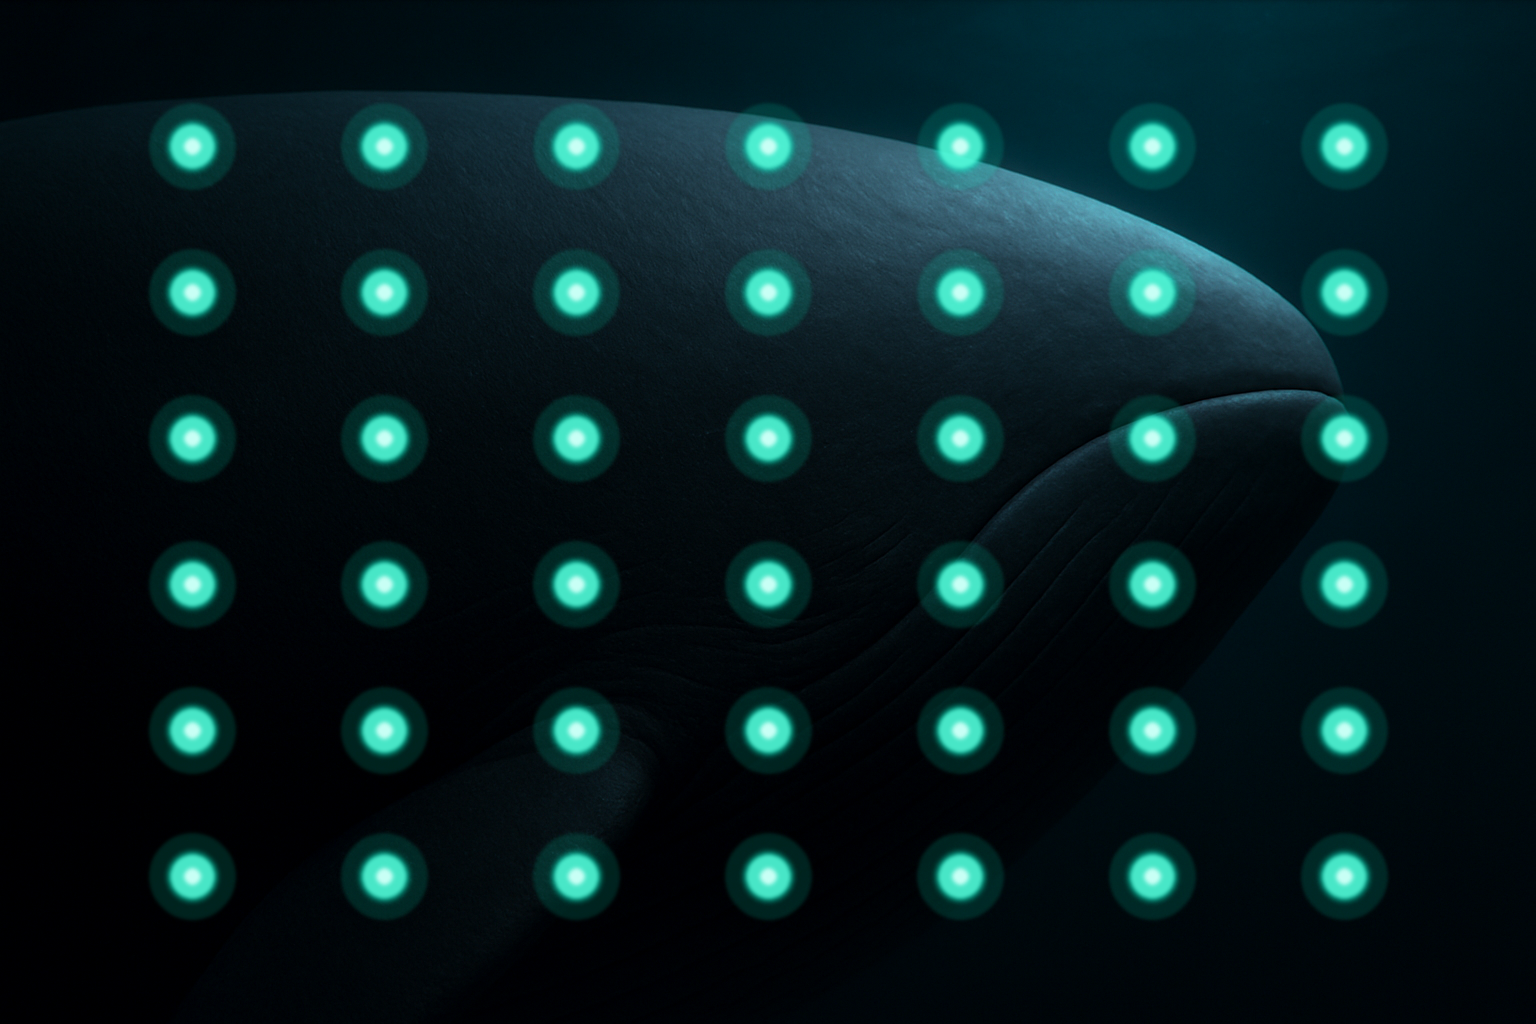
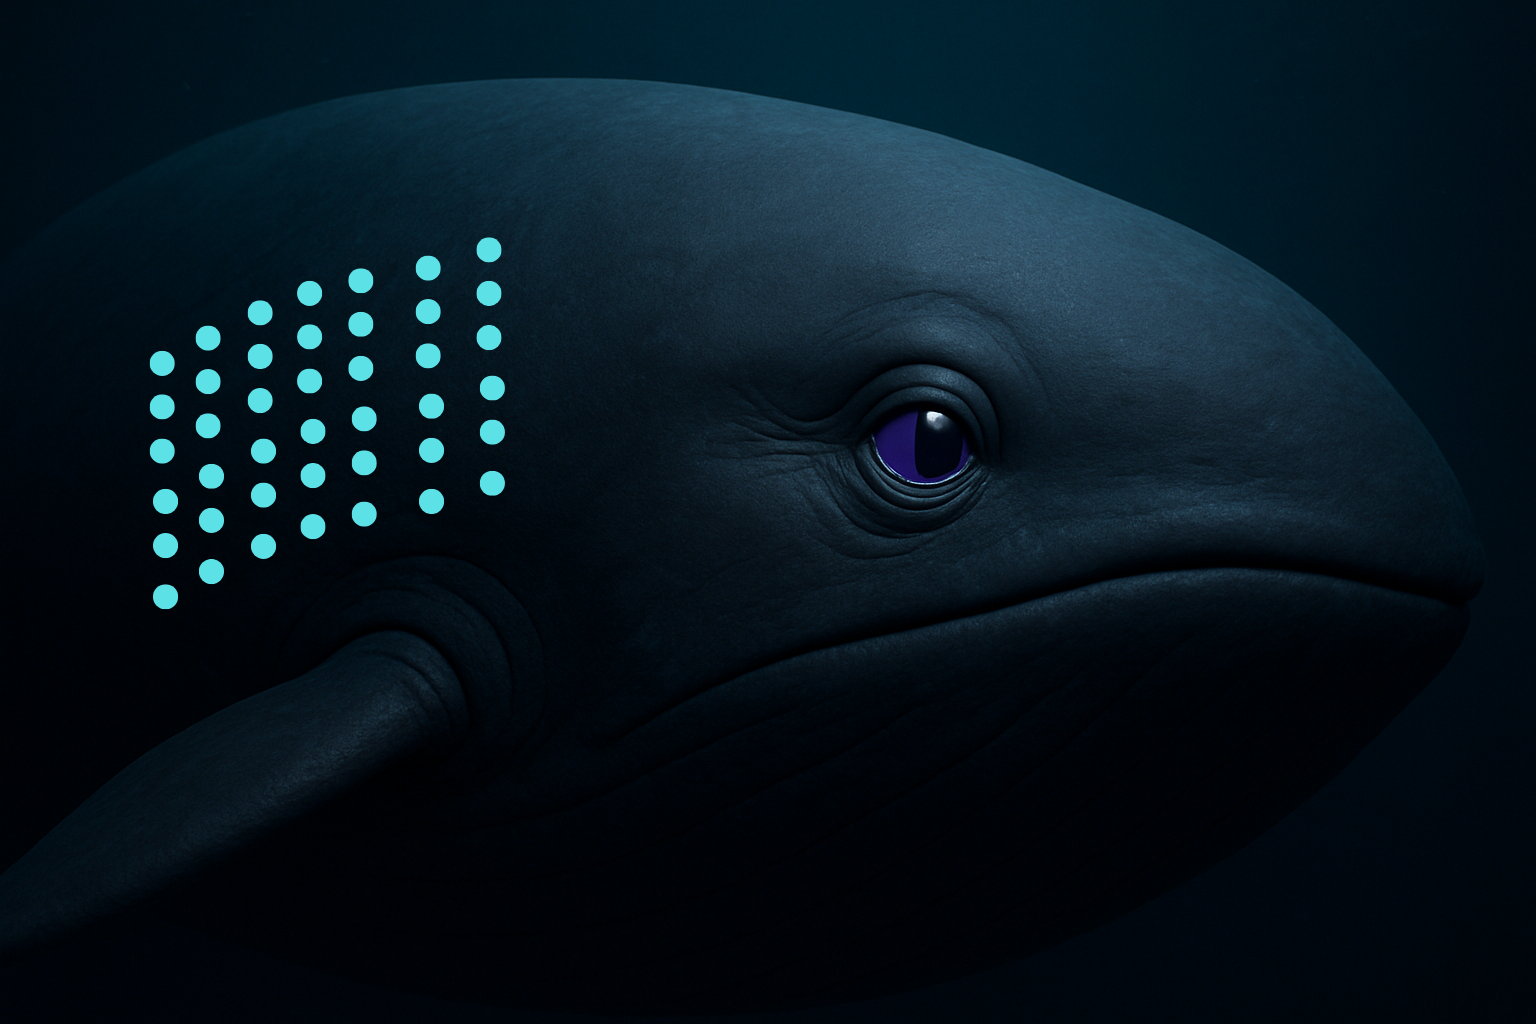
ocean-004: Canva whale spot images Q1-Q5, q9 atmospheric stones, Q1 feedback fix

diff --git a/images/ocean/whale-reference/index.html b/images/ocean/whale-reference/index.html
@@ -1,0 +1,30 @@
+<!DOCTYPE html>
+<html>
+<head>
+<meta charset="UTF-8">
+<title>🐋 Whale Reference Images</title>
+<style>
+  body { font-family: -apple-system, sans-serif; background: #020d1a; color: #e2e8f0; max-width: 900px; margin: 40px auto; padding: 0 24px; }
+  h1 { color: #06b6d4; font-size: 22px; margin-bottom: 6px; }
+  p { color: #64748b; font-size: 14px; margin-bottom: 28px; }
+  .grid { display: grid; grid-template-columns: 1fr 1fr; gap: 20px; }
+  .card { background: #0f1f2e; border: 1px solid #1e3a4a; border-radius: 10px; overflow: hidden; }
+  .card img { width: 100%; display: block; }
+  .card .info { padding: 12px 16px; display: flex; justify-content: space-between; align-items: center; }
+  .card .name { font-size: 13px; font-weight: 600; }
+  .card a { background: #06b6d4; color: #020d1a; padding: 6px 14px; border-radius: 20px; font-size: 12px; font-weight: 700; text-decoration: none; }
+  .card a:hover { background: #0891b2; }
+</style>
+</head>
+<body>
+<h1>🐋 Whale Reference Images — No Spots</h1>
+<p>Clean whale shots for Canva overlay. Right-click any image to save, or use the Download button.</p>
+<div class="grid">
+  <div class="card"><img src="whale-body-full.png"><div class="info"><span class="name">Full Body</span><a href="whale-body-full.png" download>Download</a></div></div>
+  <div class="card"><img src="whale-flank-left.png"><div class="info"><span class="name">Left Flank</span><a href="whale-flank-left.png" download>Download</a></div></div>
+  <div class="card"><img src="whale-flank-right.png"><div class="info"><span class="name">Right Flank</span><a href="whale-flank-right.png" download>Download</a></div></div>
+  <div class="card"><img src="whale-dorsal-fin.png"><div class="info"><span class="name">Dorsal Fin</span><a href="whale-dorsal-fin.png" download>Download</a></div></div>
+  <div class="card"><img src="whale-body-and-fin.png"><div class="info"><span class="name">Body + Fin</span><a href="whale-body-and-fin.png" download>Download</a></div></div>
+</div>
+</body>
+</html>
